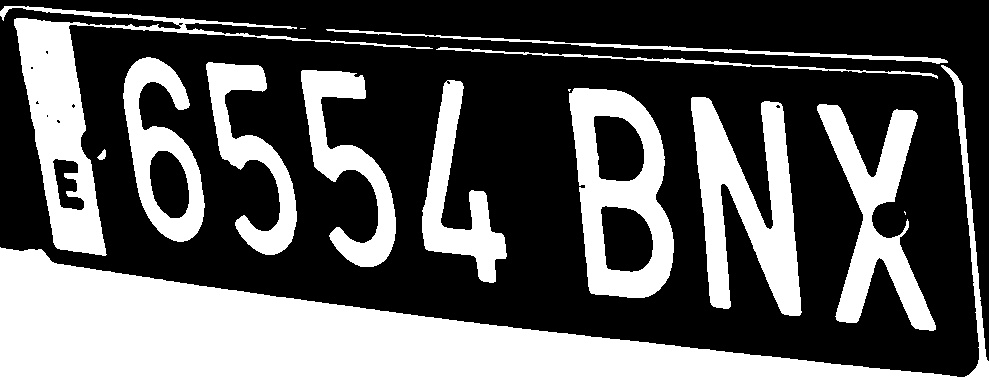
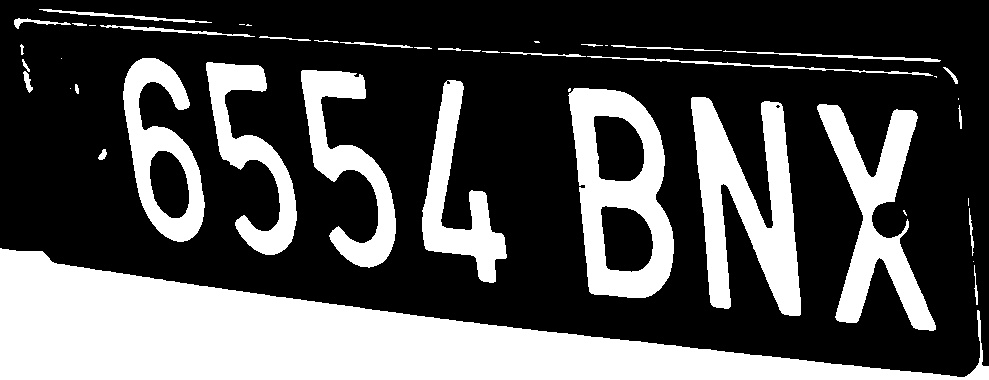
Nuevo algoritmo de binarización

diff --git a/Binaritza/binaritza.py b/Binaritza/binaritza.py
@@ -12,8 +12,8 @@ import numpy as np
 from matplotlib import pyplot as plt
 from typing import Tuple
 
-PATH_TO_ORIGINAL_IMAGE_DIRECTORY = "../CharactersPlate"
-PATH_TO_RESULT_IMAGE_DIRECTORY = "../Results/characters_plate"
+PATH_TO_ORIGINAL_IMAGE_DIRECTORY = "../Results/cropped_results"
+PATH_TO_RESULT_IMAGE_DIRECTORY = "../Results/binarized"
 WINDOW_SIZE = 1000
 SHOW_RESULTS = False
 
@@ -21,6 +21,10 @@ SHOW_RESULTS = False
 def to_gray(image: np.array) -> np.array:
     # return 0.114 * image[:, :, 0] + 0.587 * image[:, :, 1] + 0.299 * image[:, :, 2]
     return cv2.cvtColor(image, cv2.COLOR_BGR2GRAY)
+
+
+def to_hsv(image: np.array) -> np.array:
+    return cv2.cvtColor(image, cv2.COLOR_BGR2HSV)
 
 
 def blackhat(image: np.array, kernel_size: Tuple[int, int]) -> np.array:
@@ -123,9 +127,15 @@ def process_image(original_image: np.array) -> np.array:
     
     # return dialted_image_3
     
-    gray_image = to_gray(original_image)
+    # gray_image = to_gray(original_image)
     
-    blured_image = gaussian_blur(gray_image, (5, 5))
+    # original_image[:, :, 1] = 0.1 * original_image[:, :, 1]
+    
+    hsv_image = to_hsv(original_image)[:, :, 2]
+    
+    # show_image_on_window(hsv_image, "HSV")
+    
+    blured_image = gaussian_blur(hsv_image, (5, 5))
     
     threshold_image = otsu_threshold(blured_image, 0, 255)
     
